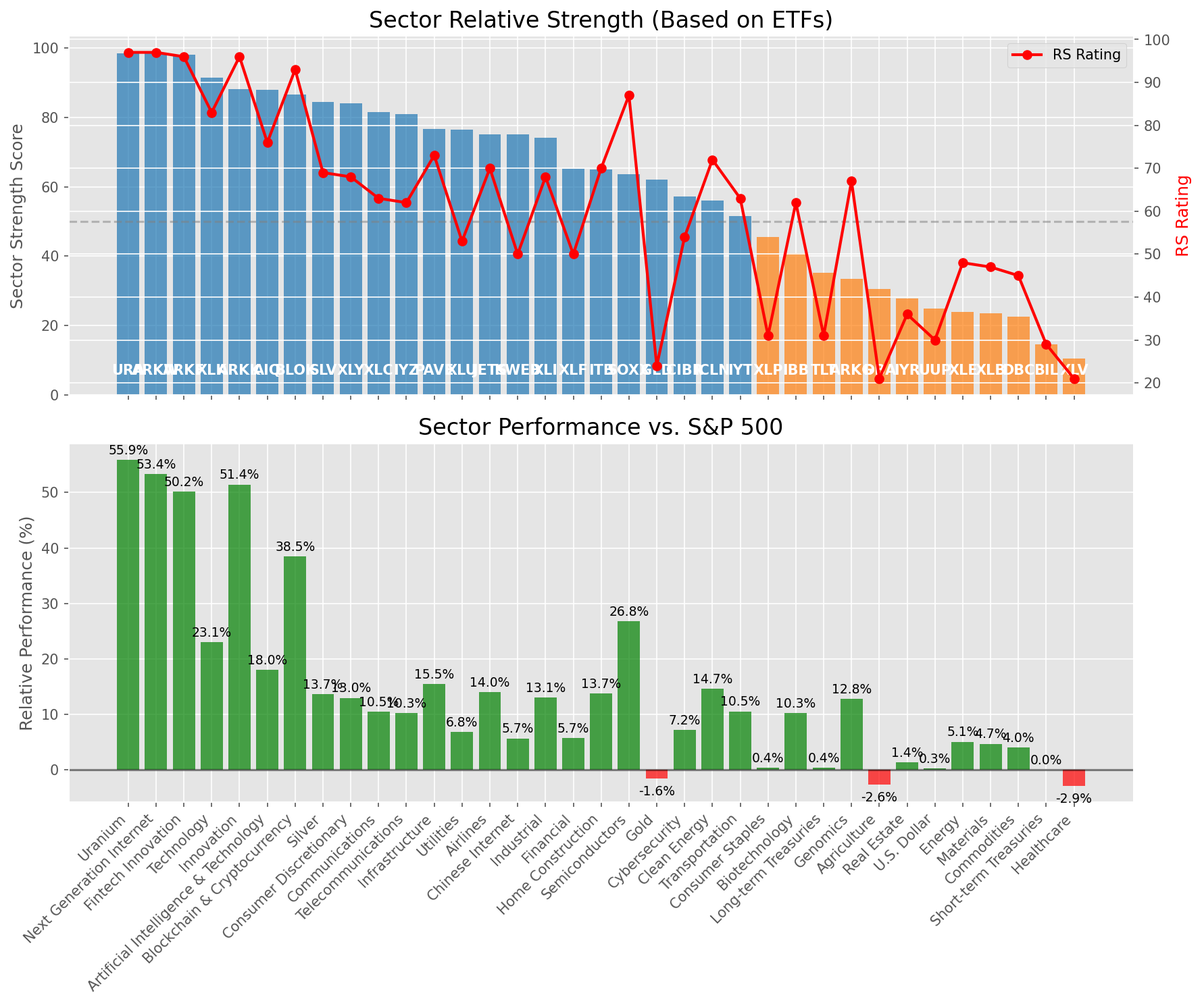
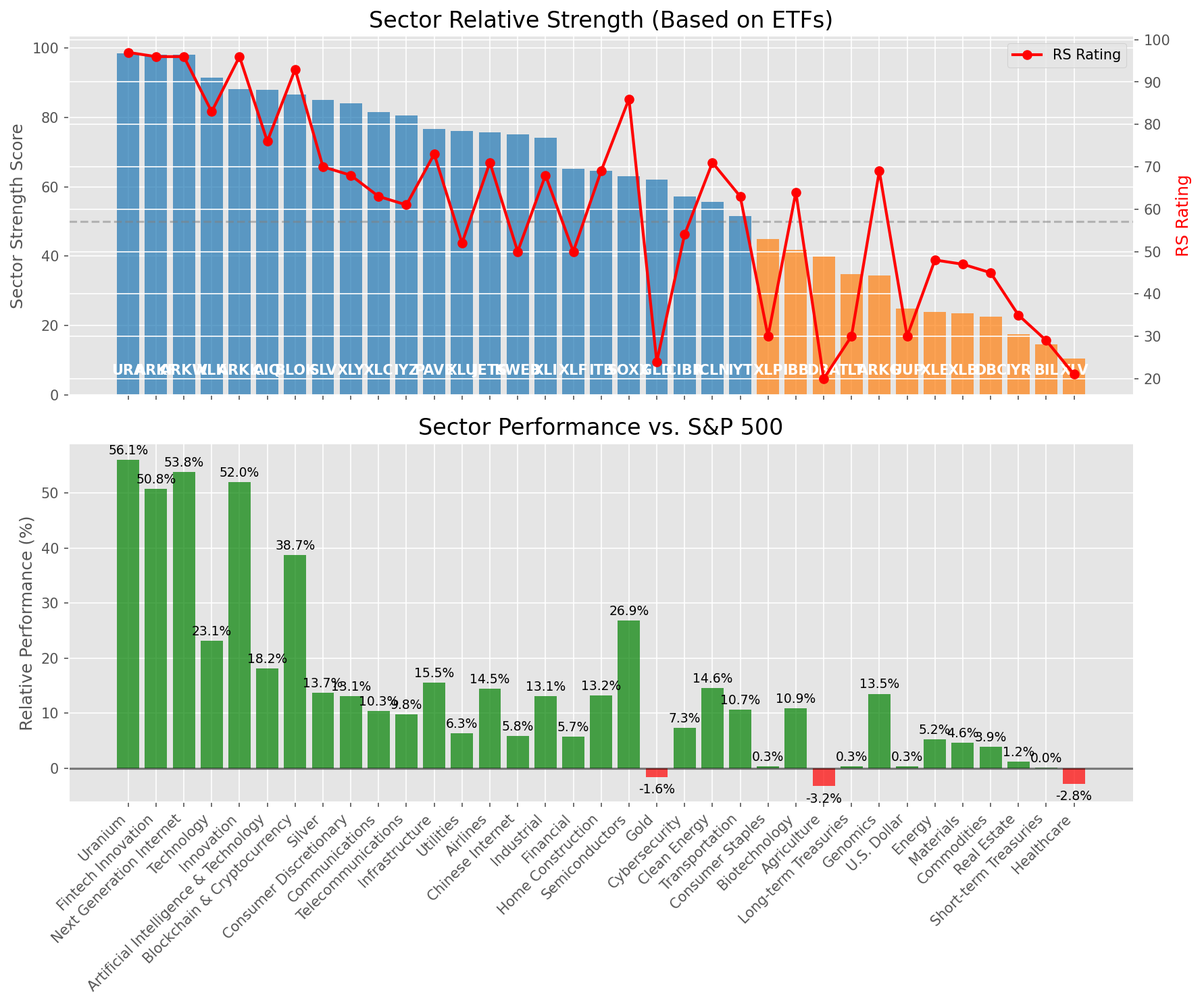
Add market report for 2025-08-06

diff --git a/oneil_relative_strength_report_2025-08-06.md b/oneil_relative_strength_report_2025-08-06.md
@@ -13,7 +13,7 @@
 | **Historical Mean** | 9.62 |
 | **Standard Deviation** | 0.54 |
 | **Z-Score (StdDev from Mean)** | 1.06 |
-| **Total Market Cap** | $311.30 trillion |
+| **Total Market Cap** | $311.25 trillion |
 | **GDP** | $30.33 trillion |
 
 ## **Market Insights**
@@ -49,41 +49,41 @@ Based on William O'Neil's Relative Strength Methodology
 
 | ETF | Strength | RS Rating | Performance | Above Key MAs | Trend | Sector |
 |-----|----------|-----------|-------------|--------------|-------|--------|
-| [URA](https://www.tradingview.com/chart/?symbol=URA) | 98.5 | 97.0 | 55.91% | 10d ✓, 50d ✓, 200d ✓ | ↗ | Uranium |
-| [ARKW](https://www.tradingview.com/chart/?symbol=ARKW) | 98.5 | 97.0 | 53.38% | 10d ✓, 50d ✓, 200d ✓ | ↗ | Next Generation Internet |
-| [ARKF](https://www.tradingview.com/chart/?symbol=ARKF) | 98.0 | 96.0 | 50.17% | 10d ✓, 50d ✓, 200d ✓ | ↗ | Fintech Innovation |
-| [XLK](https://www.tradingview.com/chart/?symbol=XLK) | 91.5 | 83.0 | 23.06% | 10d ✓, 50d ✓, 200d ✓ | ↗ | Technology |
-| [ARKK](https://www.tradingview.com/chart/?symbol=ARKK) | 88.1 | 96.0 | 51.44% | 10d ✗, 50d ✓, 200d ✓ | ↗ | Innovation |
-| [AIQ](https://www.tradingview.com/chart/?symbol=AIQ) | 88.0 | 76.0 | 18.01% | 10d ✓, 50d ✓, 200d ✓ | ↗ | Artificial Intelligence & Technology |
-| [BLOK](https://www.tradingview.com/chart/?symbol=BLOK) | 86.6 | 93.0 | 38.50% | 10d ✗, 50d ✓, 200d ✓ | ↗ | Blockchain & Cryptocurrency |
-| [SLV](https://www.tradingview.com/chart/?symbol=SLV) | 84.5 | 69.0 | 13.68% | 10d ✓, 50d ✓, 200d ✓ | ↗ | Silver |
-| [XLY](https://www.tradingview.com/chart/?symbol=XLY) | 84.0 | 68.0 | 12.98% | 10d ✓, 50d ✓, 200d ✓ | ↗ | Consumer Discretionary |
-| [XLC](https://www.tradingview.com/chart/?symbol=XLC) | 81.5 | 63.0 | 10.51% | 10d ✓, 50d ✓, 200d ✓ | ↗ | Communications |
-| [IYZ](https://www.tradingview.com/chart/?symbol=IYZ) | 81.0 | 62.0 | 10.26% | 10d ✓, 50d ✓, 200d ✓ | ↗ | Telecommunications |
+| [URA](https://www.tradingview.com/chart/?symbol=URA) | 98.5 | 97.0 | 56.08% | 10d ✓, 50d ✓, 200d ✓ | ↗ | Uranium |
+| [ARKF](https://www.tradingview.com/chart/?symbol=ARKF) | 98.0 | 96.0 | 50.77% | 10d ✓, 50d ✓, 200d ✓ | ↗ | Fintech Innovation |
+| [ARKW](https://www.tradingview.com/chart/?symbol=ARKW) | 98.0 | 96.0 | 53.80% | 10d ✓, 50d ✓, 200d ✓ | ↗ | Next Generation Internet |
+| [XLK](https://www.tradingview.com/chart/?symbol=XLK) | 91.5 | 83.0 | 23.11% | 10d ✓, 50d ✓, 200d ✓ | ↗ | Technology |
+| [ARKK](https://www.tradingview.com/chart/?symbol=ARKK) | 88.1 | 96.0 | 52.03% | 10d ✗, 50d ✓, 200d ✓ | ↗ | Innovation |
+| [AIQ](https://www.tradingview.com/chart/?symbol=AIQ) | 88.0 | 76.0 | 18.16% | 10d ✓, 50d ✓, 200d ✓ | ↗ | Artificial Intelligence & Technology |
+| [BLOK](https://www.tradingview.com/chart/?symbol=BLOK) | 86.6 | 93.0 | 38.74% | 10d ✗, 50d ✓, 200d ✓ | ↗ | Blockchain & Cryptocurrency |
+| [SLV](https://www.tradingview.com/chart/?symbol=SLV) | 85.0 | 70.0 | 13.67% | 10d ✓, 50d ✓, 200d ✓ | ↗ | Silver |
+| [XLY](https://www.tradingview.com/chart/?symbol=XLY) | 84.0 | 68.0 | 13.12% | 10d ✓, 50d ✓, 200d ✓ | ↗ | Consumer Discretionary |
+| [XLC](https://www.tradingview.com/chart/?symbol=XLC) | 81.5 | 63.0 | 10.35% | 10d ✓, 50d ✓, 200d ✓ | ↗ | Communications |
+| [IYZ](https://www.tradingview.com/chart/?symbol=IYZ) | 80.5 | 61.0 | 9.82% | 10d ✓, 50d ✓, 200d ✓ | ↗ | Telecommunications |
 | [PAVE](https://www.tradingview.com/chart/?symbol=PAVE) | 76.6 | 73.0 | 15.51% | 10d ✗, 50d ✓, 200d ✓ | ↗ | Infrastructure |
-| [XLU](https://www.tradingview.com/chart/?symbol=XLU) | 76.5 | 53.0 | 6.84% | 10d ✓, 50d ✓, 200d ✓ | ↗ | Utilities |
-| [JETS](https://www.tradingview.com/chart/?symbol=JETS) | 75.1 | 70.0 | 13.98% | 10d ✗, 50d ✓, 200d ✓ | ↗ | Airlines |
-| [KWEB](https://www.tradingview.com/chart/?symbol=KWEB) | 75.0 | 50.0 | 5.68% | 10d ✓, 50d ✓, 200d ✓ | ↗ | Chinese Internet |
-| [XLI](https://www.tradingview.com/chart/?symbol=XLI) | 74.1 | 68.0 | 13.09% | 10d ✗, 50d ✓, 200d ✓ | ↗ | Industrial |
-| [XLF](https://www.tradingview.com/chart/?symbol=XLF) | 65.1 | 50.0 | 5.70% | 10d ✗, 50d ✓, 200d ✓ | ↗ | Financial |
-| [ITB](https://www.tradingview.com/chart/?symbol=ITB) | 65.0 | 70.0 | 13.72% | 10d ✓, 50d ✓, 200d ✓ | ↘ | Home Construction |
-| [SOXX](https://www.tradingview.com/chart/?symbol=SOXX) | 63.6 | 87.0 | 26.85% | 10d ✗, 50d ✓, 200d ✓ | ↘ | Semiconductors |
+| [XLU](https://www.tradingview.com/chart/?symbol=XLU) | 76.0 | 52.0 | 6.33% | 10d ✓, 50d ✓, 200d ✓ | ↗ | Utilities |
+| [JETS](https://www.tradingview.com/chart/?symbol=JETS) | 75.6 | 71.0 | 14.46% | 10d ✗, 50d ✓, 200d ✓ | ↗ | Airlines |
+| [KWEB](https://www.tradingview.com/chart/?symbol=KWEB) | 75.0 | 50.0 | 5.83% | 10d ✓, 50d ✓, 200d ✓ | ↗ | Chinese Internet |
+| [XLI](https://www.tradingview.com/chart/?symbol=XLI) | 74.1 | 68.0 | 13.08% | 10d ✗, 50d ✓, 200d ✓ | ↗ | Industrial |
+| [XLF](https://www.tradingview.com/chart/?symbol=XLF) | 65.1 | 50.0 | 5.68% | 10d ✗, 50d ✓, 200d ✓ | ↗ | Financial |
+| [ITB](https://www.tradingview.com/chart/?symbol=ITB) | 64.5 | 69.0 | 13.22% | 10d ✓, 50d ✓, 200d ✓ | ↘ | Home Construction |
+| [SOXX](https://www.tradingview.com/chart/?symbol=SOXX) | 63.1 | 86.0 | 26.86% | 10d ✗, 50d ✓, 200d ✓ | ↘ | Semiconductors |
 | [GLD](https://www.tradingview.com/chart/?symbol=GLD) | 62.0 | 24.0 | -1.58% | 10d ✓, 50d ✓, 200d ✓ | ↗ | Gold |
-| [CIBR](https://www.tradingview.com/chart/?symbol=CIBR) | 57.2 | 54.0 | 7.16% | 10d ✗, 50d ✗, 200d ✓ | ↗ | Cybersecurity |
-| [ICLN](https://www.tradingview.com/chart/?symbol=ICLN) | 56.1 | 72.0 | 14.66% | 10d ✗, 50d ✓, 200d ✓ | ↘ | Clean Energy |
-| [IYT](https://www.tradingview.com/chart/?symbol=IYT) | 51.6 | 63.0 | 10.55% | 10d ✗, 50d ✓, 200d ✓ | ↘ | Transportation |
-| [XLP](https://www.tradingview.com/chart/?symbol=XLP) | 45.5 | 31.0 | 0.41% | 10d ✓, 50d ✓, 200d ✓ | ↘ | Consumer Staples |
-| [IBB](https://www.tradingview.com/chart/?symbol=IBB) | 40.9 | 62.0 | 10.25% | 10d ✗, 50d ✓, 200d ✗ | ↘ | Biotechnology |
-| [TLT](https://www.tradingview.com/chart/?symbol=TLT) | 35.3 | 31.0 | 0.39% | 10d ✓, 50d ✓, 200d ✗ | ↘ | Long-term Treasuries |
-| [ARKG](https://www.tradingview.com/chart/?symbol=ARKG) | 33.5 | 67.0 | 12.76% | 10d ✗, 50d ✗, 200d ✗ | ↘ | Genomics |
-| [DBA](https://www.tradingview.com/chart/?symbol=DBA) | 30.5 | 21.0 | -2.63% | 10d ✗, 50d ✗, 200d ✗ | ↗ | Agriculture |
-| [IYR](https://www.tradingview.com/chart/?symbol=IYR) | 27.9 | 36.0 | 1.40% | 10d ✗, 50d ✓, 200d ✗ | ↘ | Real Estate |
-| [UUP](https://www.tradingview.com/chart/?symbol=UUP) | 24.9 | 30.0 | 0.29% | 10d ✗, 50d ✓, 200d ✗ | ↘ | U.S. Dollar |
-| [XLE](https://www.tradingview.com/chart/?symbol=XLE) | 24.0 | 48.0 | 5.07% | 10d ✗, 50d ✗, 200d ✗ | ↘ | Energy |
-| [XLB](https://www.tradingview.com/chart/?symbol=XLB) | 23.5 | 47.0 | 4.71% | 10d ✗, 50d ✗, 200d ✗ | ↘ | Materials |
-| [DBC](https://www.tradingview.com/chart/?symbol=DBC) | 22.5 | 45.0 | 4.01% | 10d ✗, 50d ✗, 200d ✗ | ↘ | Commodities |
+| [CIBR](https://www.tradingview.com/chart/?symbol=CIBR) | 57.2 | 54.0 | 7.29% | 10d ✗, 50d ✗, 200d ✓ | ↗ | Cybersecurity |
+| [ICLN](https://www.tradingview.com/chart/?symbol=ICLN) | 55.6 | 71.0 | 14.57% | 10d ✗, 50d ✓, 200d ✓ | ↘ | Clean Energy |
+| [IYT](https://www.tradingview.com/chart/?symbol=IYT) | 51.6 | 63.0 | 10.67% | 10d ✗, 50d ✓, 200d ✓ | ↘ | Transportation |
+| [XLP](https://www.tradingview.com/chart/?symbol=XLP) | 45.0 | 30.0 | 0.33% | 10d ✓, 50d ✓, 200d ✓ | ↘ | Consumer Staples |
+| [IBB](https://www.tradingview.com/chart/?symbol=IBB) | 41.9 | 64.0 | 10.87% | 10d ✗, 50d ✓, 200d ✗ | ↘ | Biotechnology |
+| [DBA](https://www.tradingview.com/chart/?symbol=DBA) | 39.9 | 20.0 | -3.24% | 10d ✓, 50d ✗, 200d ✗ | ↗ | Agriculture |
+| [TLT](https://www.tradingview.com/chart/?symbol=TLT) | 34.8 | 30.0 | 0.33% | 10d ✓, 50d ✓, 200d ✗ | ↘ | Long-term Treasuries |
+| [ARKG](https://www.tradingview.com/chart/?symbol=ARKG) | 34.5 | 69.0 | 13.52% | 10d ✗, 50d ✗, 200d ✗ | ↘ | Genomics |
+| [UUP](https://www.tradingview.com/chart/?symbol=UUP) | 24.9 | 30.0 | 0.33% | 10d ✗, 50d ✓, 200d ✗ | ↘ | U.S. Dollar |
+| [XLE](https://www.tradingview.com/chart/?symbol=XLE) | 24.0 | 48.0 | 5.22% | 10d ✗, 50d ✗, 200d ✗ | ↘ | Energy |
+| [XLB](https://www.tradingview.com/chart/?symbol=XLB) | 23.5 | 47.0 | 4.59% | 10d ✗, 50d ✗, 200d ✗ | ↘ | Materials |
+| [DBC](https://www.tradingview.com/chart/?symbol=DBC) | 22.5 | 45.0 | 3.91% | 10d ✗, 50d ✗, 200d ✗ | ↘ | Commodities |
+| [IYR](https://www.tradingview.com/chart/?symbol=IYR) | 17.5 | 35.0 | 1.18% | 10d ✗, 50d ✗, 200d ✗ | ↘ | Real Estate |
 | [BIL](https://www.tradingview.com/chart/?symbol=BIL) | 14.5 | 29.0 | 0.03% | 10d ✗, 50d ✗, 200d ✗ | ↘ | Short-term Treasuries |
-| [XLV](https://www.tradingview.com/chart/?symbol=XLV) | 10.5 | 21.0 | -2.90% | 10d ✗, 50d ✗, 200d ✗ | ↘ | Healthcare |
+| [XLV](https://www.tradingview.com/chart/?symbol=XLV) | 10.5 | 21.0 | -2.84% | 10d ✗, 50d ✗, 200d ✗ | ↘ | Healthcare |
 
 ### **Sector ETF Performance Interpretation**
 
@@ -98,132 +98,129 @@ This table shows the relative strength metrics for different market sectors base
 
 ### **Current Sector Leadership**
 
-The current market leadership is coming from the following sectors: **Uranium, Next Generation Internet, Fintech Innovation**.
+The current market leadership is coming from the following sectors: **Uranium, Fintech Innovation, Next Generation Internet**.
 
-The **Uranium** sector (represented by **URA**) is showing particularly strong relative strength with an RS rating of 97.0 and performance of 55.91% vs. the S&P 500. This sector is trading above its 10-day, 50-day, 200-day moving average(s). Investors should consider focusing on high RS stocks within these leading sectors for potential outperformance.
+The **Uranium** sector (represented by **URA**) is showing particularly strong relative strength with an RS rating of 97.0 and performance of 56.08% vs. the S&P 500. This sector is trading above its 10-day, 50-day, 200-day moving average(s). Investors should consider focusing on high RS stocks within these leading sectors for potential outperformance.
 
 ---
 
 ## **Buy Recommendations**
 
-The following 59 stocks show exceptional relative strength:
+The following 62 stocks show exceptional relative strength:
 
 | RS Rating | Buy Score | Current Price | Chart | Name | Ticker |
 |-----------|-----------|---------------|-------|------|--------|
-| 100 | 100 | $239.30 | [Chart](https://www.tradingview.com/chart/?symbol=LEU) | Centrus Energy Corp. | LEU |
-| 100 | 100 | $104.47 | [Chart](https://www.tradingview.com/chart/?symbol=HOOD) | Robinhood Markets, Inc. Class A Common Stock | HOOD |
-| 100 | 100 | $67.31 | [Chart](https://www.tradingview.com/chart/?symbol=MP) | MP Materials Corp. | MP |
-| 100 | 100 | $118.07 | [Chart](https://www.tradingview.com/chart/?symbol=CRDO) | Credo Technology Group Holding Ltd Ordinary Shares | CRDO |
-| 100 | 100 | $197.65 | [Chart](https://www.tradingview.com/chart/?symbol=CLS) | Celestica, Inc. | CLS |
-| 99 | 100 | $213.62 | [Chart](https://www.tradingview.com/chart/?symbol=NET) | Cloudflare, Inc. Class A common stock, par value $0.001 per share | NET |
-| 99 | 100 | $133.38 | [Chart](https://www.tradingview.com/chart/?symbol=RBLX) | Roblox Corporation | RBLX |
-| 99 | 100 | $77.56 | [Chart](https://www.tradingview.com/chart/?symbol=LIF) | Life360, Inc. Common Stock | LIF |
-| 98 | 100 | $177.37 | [Chart](https://www.tradingview.com/chart/?symbol=PLTR) | Palantir Technologies Inc. Class A Common Stock | PLTR |
-| 98 | 100 | $191.55 | [Chart](https://www.tradingview.com/chart/?symbol=COOP) | Mr. Cooper Group Inc. Common Stock | COOP |
-| 98 | 100 | $59.85 | [Chart](https://www.tradingview.com/chart/?symbol=KTOS) | Kratos Defense & Security Solutions, Inc. | KTOS |
-| 98 | 100 | $381.32 | [Chart](https://www.tradingview.com/chart/?symbol=TLN) | Talen Energy Corporation Common Stock | TLN |
-| 98 | 100 | $663.10 | [Chart](https://www.tradingview.com/chart/?symbol=GEV) | GE Vernova Inc. | GEV |
-| 97 | 100 | $156.66 | [Chart](https://www.tradingview.com/chart/?symbol=ARKW) | ARK Next Generation Internet ETF | ARKW |
-| 97 | 100 | $38.50 | [Chart](https://www.tradingview.com/chart/?symbol=NNE) | Nano Nuclear Energy Inc. Common Stock | NNE |
-| 96 | 100 | $53.66 | [Chart](https://www.tradingview.com/chart/?symbol=ARKF) | ARK Fintech Innovation ETF | ARKF |
-| 96 | 100 | $35.25 | [Chart](https://www.tradingview.com/chart/?symbol=ATRO) | Astronics Corp | ATRO |
-| 96 | 100 | $111.95 | [Chart](https://www.tradingview.com/chart/?symbol=TPR) | Tapestry, Inc. Common Stock | TPR |
-| 95 | 100 | $28.81 | [Chart](https://www.tradingview.com/chart/?symbol=KAR) | OPENLANE, Inc | KAR |
-| 95 | 100 | $116.21 | [Chart](https://www.tradingview.com/chart/?symbol=SANM) | Sanmina  Corp | SANM |
-| 95 | 100 | $868.08 | [Chart](https://www.tradingview.com/chart/?symbol=AXON) | Axon Enterprise, Inc. Common Stock | AXON |
-| 94 | 100 | $51.17 | [Chart](https://www.tradingview.com/chart/?symbol=PTCT) | PTC Therapeutics, Inc. | PTCT |
-| 94 | 100 | $51.02 | [Chart](https://www.tradingview.com/chart/?symbol=BBW) | Build-A-Bear Workshop, Inc. | BBW |
-| 94 | 100 | $89.97 | [Chart](https://www.tradingview.com/chart/?symbol=RYTM) | Rhythm Pharmaceuticals, Inc. Common Stock | RYTM |
-| 94 | 100 | $93.26 | [Chart](https://www.tradingview.com/chart/?symbol=TPB) | Turning Point Brands, Inc. | TPB |
-| 93 | 100 | $21.64 | [Chart](https://www.tradingview.com/chart/?symbol=MAG) | MAG Silver Corp. | MAG |
-| 93 | 100 | $49.70 | [Chart](https://www.tradingview.com/chart/?symbol=REVG) | REV Group, Inc. | REVG |
-| 93 | 100 | $509.44 | [Chart](https://www.tradingview.com/chart/?symbol=CW) | Curtiss-Wright Corp. | CW |
-| 92 | 100 | $258.75 | [Chart](https://www.tradingview.com/chart/?symbol=DASH) | DoorDash, Inc. Class A Common Stock | DASH |
-| 92 | 100 | $109.12 | [Chart](https://www.tradingview.com/chart/?symbol=APH) | Amphenol Corporation | APH |
-| 92 | 100 | $354.53 | [Chart](https://www.tradingview.com/chart/?symbol=CVNA) | Carvana Co. | CVNA |
-| 91 | 100 | $155.81 | [Chart](https://www.tradingview.com/chart/?symbol=VSEC) | VSE Corp | VSEC |
-| 90 | 100 | $20.44 | [Chart](https://www.tradingview.com/chart/?symbol=LQDA) | Liquidia Corporation Common Stock | LQDA |
-| 90 | 100 | $57.88 | [Chart](https://www.tradingview.com/chart/?symbol=AU) | AngloGold Ashanti plc | AU |
-| 90 | 100 | $93.13 | [Chart](https://www.tradingview.com/chart/?symbol=EBAY) | eBay Inc | EBAY |
-| 90 | 100 | $725.92 | [Chart](https://www.tradingview.com/chart/?symbol=GS) | Goldman Sachs Group Inc. | GS |
-| 90 | 100 | $38.92 | [Chart](https://www.tradingview.com/chart/?symbol=ZLAB) | Zai Lab Limited American Depositary Shares | ZLAB |
-| 89 | 100 | $34.74 | [Chart](https://www.tradingview.com/chart/?symbol=DB) | Deutsche Bank Aktiengesellschaft | DB |
-| 89 | 100 | $273.27 | [Chart](https://www.tradingview.com/chart/?symbol=GE) | GE Aerospace | GE |
-| 89 | 100 | $42.92 | [Chart](https://www.tradingview.com/chart/?symbol=LTM) | LATAM Airlines Group S.A. American Depositary Shares (each representing two thousand (2,000) shares of Common Stock) | LTM |
-| 86 | 99 | $269.60 | [Chart](https://www.tradingview.com/chart/?symbol=IDCC) | InterDigital, Inc. | IDCC |
-| 88 | 98 | $390.31 | [Chart](https://www.tradingview.com/chart/?symbol=APP) | Applovin Corporation Class A Common Stock | APP |
-| 86 | 98 | $56.41 | [Chart](https://www.tradingview.com/chart/?symbol=BTI) | British American Tobacco p.l.c. American Depositary Shares, American Depositary Shares, each representing one Ordinary Share | BTI |
-| 87 | 97 | $128.84 | [Chart](https://www.tradingview.com/chart/?symbol=TWLO) | Twilio Inc. | TWLO |
-| 86 | 96 | $190.01 | [Chart](https://www.tradingview.com/chart/?symbol=AWI) | Armstrong World Industries, Inc. | AWI |
-| 83 | 96 | $91.73 | [Chart](https://www.tradingview.com/chart/?symbol=RBRK) | Rubrik, Inc. | RBRK |
-| 83 | 96 | $57.38 | [Chart](https://www.tradingview.com/chart/?symbol=ERJ) | Embraer S.A. | ERJ |
-| 83 | 95 | $102.17 | [Chart](https://www.tradingview.com/chart/?symbol=BK) | Bank of New York Mellon Corporation | BK |
-| 82 | 95 | $39.82 | [Chart](https://www.tradingview.com/chart/?symbol=AHR) | American Healthcare REIT, Inc. | AHR |
-| 81 | 95 | $19.57 | [Chart](https://www.tradingview.com/chart/?symbol=BCS) | Barclays PLC | BCS |
-| 84 | 94 | $51.65 | [Chart](https://www.tradingview.com/chart/?symbol=SIL) | Global X Silver Miners ETF (NEW) | SIL |
-| 83 | 94 | $264.87 | [Chart](https://www.tradingview.com/chart/?symbol=WTS) | Watts Water Technologies, Inc. Class A | WTS |
-| 83 | 94 | $197.89 | [Chart](https://www.tradingview.com/chart/?symbol=ITA) | iShares U.S. Aerospace & Defense ETF | ITA |
-| 82 | 94 | $29.59 | [Chart](https://www.tradingview.com/chart/?symbol=OR) | OR Royalties Inc. | OR |
-| 83 | 93 | $96.50 | [Chart](https://www.tradingview.com/chart/?symbol=NDAQ) | Nasdaq, Inc. Common Stock | NDAQ |
-| 81 | 93 | $322.07 | [Chart](https://www.tradingview.com/chart/?symbol=FFIV) | F5, Inc. Common Stock | FFIV |
+| 100 | 100 | $67.51 | [Chart](https://www.tradingview.com/chart/?symbol=MP) | MP Materials Corp. | MP |
+| 100 | 100 | $105.65 | [Chart](https://www.tradingview.com/chart/?symbol=HOOD) | Robinhood Markets, Inc. Class A Common Stock | HOOD |
+| 100 | 100 | $232.39 | [Chart](https://www.tradingview.com/chart/?symbol=LEU) | Centrus Energy Corp. | LEU |
+| 100 | 100 | $198.63 | [Chart](https://www.tradingview.com/chart/?symbol=CLS) | Celestica, Inc. | CLS |
+| 100 | 100 | $117.34 | [Chart](https://www.tradingview.com/chart/?symbol=CRDO) | Credo Technology Group Holding Ltd Ordinary Shares | CRDO |
+| 99 | 100 | $215.53 | [Chart](https://www.tradingview.com/chart/?symbol=NET) | Cloudflare, Inc. Class A common stock, par value $0.001 per share | NET |
+| 99 | 100 | $77.75 | [Chart](https://www.tradingview.com/chart/?symbol=LIF) | Life360, Inc. Common Stock | LIF |
+| 99 | 100 | $134.14 | [Chart](https://www.tradingview.com/chart/?symbol=RBLX) | Roblox Corporation | RBLX |
+| 98 | 100 | $23.80 | [Chart](https://www.tradingview.com/chart/?symbol=ACAD) | Acadia Pharmaceuticals Inc. | ACAD |
+| 98 | 100 | $58.93 | [Chart](https://www.tradingview.com/chart/?symbol=KTOS) | Kratos Defense & Security Solutions, Inc. | KTOS |
+| 98 | 100 | $190.76 | [Chart](https://www.tradingview.com/chart/?symbol=COOP) | Mr. Cooper Group Inc. Common Stock | COOP |
+| 98 | 100 | $179.54 | [Chart](https://www.tradingview.com/chart/?symbol=PLTR) | Palantir Technologies Inc. Class A Common Stock | PLTR |
+| 98 | 100 | $664.55 | [Chart](https://www.tradingview.com/chart/?symbol=GEV) | GE Vernova Inc. | GEV |
+| 97 | 100 | $378.67 | [Chart](https://www.tradingview.com/chart/?symbol=TLN) | Talen Energy Corporation Common Stock | TLN |
+| 96 | 100 | $35.37 | [Chart](https://www.tradingview.com/chart/?symbol=ATRO) | Astronics Corp | ATRO |
+| 96 | 100 | $157.09 | [Chart](https://www.tradingview.com/chart/?symbol=ARKW) | ARK Next Generation Internet ETF | ARKW |
+| 96 | 100 | $112.15 | [Chart](https://www.tradingview.com/chart/?symbol=TPR) | Tapestry, Inc. Common Stock | TPR |
+| 96 | 100 | $105.39 | [Chart](https://www.tradingview.com/chart/?symbol=VRNA) | Verona Pharma plc | VRNA |
+| 96 | 100 | $38.29 | [Chart](https://www.tradingview.com/chart/?symbol=NNE) | Nano Nuclear Energy Inc. Common Stock | NNE |
+| 96 | 100 | $53.87 | [Chart](https://www.tradingview.com/chart/?symbol=ARKF) | ARK Fintech Innovation ETF | ARKF |
+| 95 | 100 | $117.51 | [Chart](https://www.tradingview.com/chart/?symbol=SANM) | Sanmina  Corp | SANM |
+| 95 | 100 | $28.90 | [Chart](https://www.tradingview.com/chart/?symbol=KAR) | OPENLANE, Inc | KAR |
+| 94 | 100 | $90.01 | [Chart](https://www.tradingview.com/chart/?symbol=RYTM) | Rhythm Pharmaceuticals, Inc. Common Stock | RYTM |
+| 94 | 100 | $51.36 | [Chart](https://www.tradingview.com/chart/?symbol=PTCT) | PTC Therapeutics, Inc. | PTCT |
+| 94 | 100 | $51.28 | [Chart](https://www.tradingview.com/chart/?symbol=BBW) | Build-A-Bear Workshop, Inc. | BBW |
+| 94 | 100 | $863.65 | [Chart](https://www.tradingview.com/chart/?symbol=AXON) | Axon Enterprise, Inc. Common Stock | AXON |
+| 94 | 100 | $92.68 | [Chart](https://www.tradingview.com/chart/?symbol=TPB) | Turning Point Brands, Inc. | TPB |
+| 93 | 100 | $109.50 | [Chart](https://www.tradingview.com/chart/?symbol=APH) | Amphenol Corporation | APH |
+| 93 | 100 | $49.76 | [Chart](https://www.tradingview.com/chart/?symbol=REVG) | REV Group, Inc. | REVG |
+| 93 | 100 | $21.68 | [Chart](https://www.tradingview.com/chart/?symbol=MAG) | MAG Silver Corp. | MAG |
+| 93 | 100 | $509.32 | [Chart](https://www.tradingview.com/chart/?symbol=CW) | Curtiss-Wright Corp. | CW |
+| 92 | 100 | $354.89 | [Chart](https://www.tradingview.com/chart/?symbol=CVNA) | Carvana Co. | CVNA |
+| 92 | 100 | $258.08 | [Chart](https://www.tradingview.com/chart/?symbol=DASH) | DoorDash, Inc. Class A Common Stock | DASH |
+| 91 | 100 | $156.19 | [Chart](https://www.tradingview.com/chart/?symbol=VSEC) | VSE Corp | VSEC |
+| 90 | 100 | $92.54 | [Chart](https://www.tradingview.com/chart/?symbol=EBAY) | eBay Inc | EBAY |
+| 90 | 100 | $38.72 | [Chart](https://www.tradingview.com/chart/?symbol=ZLAB) | Zai Lab Limited American Depositary Shares | ZLAB |
+| 90 | 100 | $58.28 | [Chart](https://www.tradingview.com/chart/?symbol=AU) | AngloGold Ashanti plc | AU |
+| 90 | 100 | $724.74 | [Chart](https://www.tradingview.com/chart/?symbol=GS) | Goldman Sachs Group Inc. | GS |
+| 89 | 100 | $34.73 | [Chart](https://www.tradingview.com/chart/?symbol=DB) | Deutsche Bank Aktiengesellschaft | DB |
+| 89 | 100 | $272.28 | [Chart](https://www.tradingview.com/chart/?symbol=GE) | GE Aerospace | GE |
+| 89 | 100 | $42.99 | [Chart](https://www.tradingview.com/chart/?symbol=LTM) | LATAM Airlines Group S.A. American Depositary Shares (each representing two thousand (2,000) shares of Common Stock) | LTM |
+| 89 | 99 | $20.31 | [Chart](https://www.tradingview.com/chart/?symbol=LQDA) | Liquidia Corporation Common Stock | LQDA |
+| 88 | 98 | $130.22 | [Chart](https://www.tradingview.com/chart/?symbol=TWLO) | Twilio Inc. | TWLO |
+| 88 | 98 | $390.57 | [Chart](https://www.tradingview.com/chart/?symbol=APP) | Applovin Corporation Class A Common Stock | APP |
+| 86 | 98 | $56.40 | [Chart](https://www.tradingview.com/chart/?symbol=BTI) | British American Tobacco p.l.c. American Depositary Shares, American Depositary Shares, each representing one Ordinary Share | BTI |
+| 87 | 97 | $190.87 | [Chart](https://www.tradingview.com/chart/?symbol=AWI) | Armstrong World Industries, Inc. | AWI |
+| 86 | 97 | $84.68 | [Chart](https://www.tradingview.com/chart/?symbol=USFD) | US Foods Holding Corp. | USFD |
+| 83 | 96 | $91.77 | [Chart](https://www.tradingview.com/chart/?symbol=RBRK) | Rubrik, Inc. | RBRK |
+| 85 | 95 | $52.79 | [Chart](https://www.tradingview.com/chart/?symbol=AKRO) | Akero Therapeutics, Inc. Common Stock | AKRO |
+| 83 | 95 | $102.29 | [Chart](https://www.tradingview.com/chart/?symbol=BK) | Bank of New York Mellon Corporation | BK |
+| 82 | 95 | $57.14 | [Chart](https://www.tradingview.com/chart/?symbol=ERJ) | Embraer S.A. | ERJ |
+| 81 | 95 | $19.56 | [Chart](https://www.tradingview.com/chart/?symbol=BCS) | Barclays PLC | BCS |
+| 84 | 94 | $51.79 | [Chart](https://www.tradingview.com/chart/?symbol=SIL) | Global X Silver Miners ETF (NEW) | SIL |
+| 82 | 94 | $29.68 | [Chart](https://www.tradingview.com/chart/?symbol=OR) | OR Royalties Inc. | OR |
+| 81 | 94 | $39.65 | [Chart](https://www.tradingview.com/chart/?symbol=AHR) | American Healthcare REIT, Inc. | AHR |
+| 83 | 93 | $96.56 | [Chart](https://www.tradingview.com/chart/?symbol=NDAQ) | Nasdaq, Inc. Common Stock | NDAQ |
 | 82 | 92 | $51.45 | [Chart](https://www.tradingview.com/chart/?symbol=FHI) | Federated Hermes, Inc. | FHI |
-| 80 | 91 | $147.59 | [Chart](https://www.tradingview.com/chart/?symbol=PPA) | Invesco Aerospace & Defense ETF | PPA |
-| 80 | 91 | $114.66 | [Chart](https://www.tradingview.com/chart/?symbol=SXT) | Sensient Technology Corporation | SXT |
+| 82 | 92 | $263.73 | [Chart](https://www.tradingview.com/chart/?symbol=WTS) | Watts Water Technologies, Inc. Class A | WTS |
+| 81 | 92 | $115.01 | [Chart](https://www.tradingview.com/chart/?symbol=SXT) | Sensient Technology Corporation | SXT |
+| 80 | 92 | $321.23 | [Chart](https://www.tradingview.com/chart/?symbol=FFIV) | F5, Inc. Common Stock | FFIV |
+| 81 | 91 | $89.33 | [Chart](https://www.tradingview.com/chart/?symbol=GDXU) | MicroSectors Gold Miners 3x Leveraged ETN | GDXU |
+| 80 | 91 | $147.37 | [Chart](https://www.tradingview.com/chart/?symbol=PPA) | Invesco Aerospace & Defense ETF | PPA |
 
 ---
 
 
 ## **Sell Recommendations**
 
-The following 45 stocks show deteriorating relative strength:
+The following 39 stocks show deteriorating relative strength:
 
 | RS Rating | Sell Score | Current Price | Chart | Name | Ticker |
 |-----------|------------|---------------|-------|------|--------|
-| 1 | 100 | $11.88 | [Chart](https://www.tradingview.com/chart/?symbol=NVDS) | Investment Managers Series Trust II Tradr 1.5X Short NVDA Daily ETF | NVDS |
-| 2 | 100 | $13.82 | [Chart](https://www.tradingview.com/chart/?symbol=CLBT) | Cellebrite DI Ltd. Class A Ordinary Shares | CLBT |
-| 2 | 100 | $16.17 | [Chart](https://www.tradingview.com/chart/?symbol=DJT) | Trump Media & Technology Group Corp. Common Stock | DJT |
-| 4 | 100 | $41.40 | [Chart](https://www.tradingview.com/chart/?symbol=SDOW) | ProShares UltraPro Short Dow 30 | SDOW |
-| 4 | 100 | $24.21 | [Chart](https://www.tradingview.com/chart/?symbol=TBBB) | BBB Foods Inc. | TBBB |
+| 1 | 100 | $11.86 | [Chart](https://www.tradingview.com/chart/?symbol=NVDS) | Investment Managers Series Trust II Tradr 1.5X Short NVDA Daily ETF | NVDS |
+| 2 | 100 | $13.86 | [Chart](https://www.tradingview.com/chart/?symbol=CLBT) | Cellebrite DI Ltd. Class A Ordinary Shares | CLBT |
+| 2 | 100 | $16.25 | [Chart](https://www.tradingview.com/chart/?symbol=DJT) | Trump Media & Technology Group Corp. Common Stock | DJT |
+| 4 | 100 | $41.48 | [Chart](https://www.tradingview.com/chart/?symbol=SDOW) | ProShares UltraPro Short Dow 30 | SDOW |
+| 4 | 100 | $24.34 | [Chart](https://www.tradingview.com/chart/?symbol=TBBB) | BBB Foods Inc. | TBBB |
 | 6 | 100 | $10.37 | [Chart](https://www.tradingview.com/chart/?symbol=OEC) | Orion S.A. | OEC |
-| 7 | 100 | $45.74 | [Chart](https://www.tradingview.com/chart/?symbol=PRCT) | PROCEPT BioRobotics Corporation Common Stock | PRCT |
+| 7 | 100 | $45.69 | [Chart](https://www.tradingview.com/chart/?symbol=PRCT) | PROCEPT BioRobotics Corporation Common Stock | PRCT |
+| 10 | 100 | $54.94 | [Chart](https://www.tradingview.com/chart/?symbol=HRB) | H&R Block, Inc. | HRB |
 | 10 | 100 | $36.69 | [Chart](https://www.tradingview.com/chart/?symbol=LZB) | La-Z-Boy Incorporated | LZB |
-| 10 | 100 | $54.60 | [Chart](https://www.tradingview.com/chart/?symbol=HRB) | H&R Block, Inc. | HRB |
-| 12 | 100 | $16.36 | [Chart](https://www.tradingview.com/chart/?symbol=CTO) | CTO Realty Growth, Inc. | CTO |
-| 13 | 100 | $31.36 | [Chart](https://www.tradingview.com/chart/?symbol=JD) | JD.com, Inc. | JD |
-| 7 | 99 | $24.25 | [Chart](https://www.tradingview.com/chart/?symbol=DXD) | ProShares UltraShort Dow 30 | DXD |
-| 9 | 97 | $39.02 | [Chart](https://www.tradingview.com/chart/?symbol=SH) | ProShares Short S&P500 | SH |
-| 9 | 96 | $19.93 | [Chart](https://www.tradingview.com/chart/?symbol=GAP) | The Gap, Inc. | GAP |
-| 14 | 96 | $13.09 | [Chart](https://www.tradingview.com/chart/?symbol=GOOD) | Gladstone Commercial Corporation - REIT | GOOD |
-| 9 | 95 | $15.25 | [Chart](https://www.tradingview.com/chart/?symbol=PLSE) | Pulse Biosciences, Inc Common Stock (DE) | PLSE |
-| 14 | 94 | $42.00 | [Chart](https://www.tradingview.com/chart/?symbol=BILL) | BILL Holdings, Inc. | BILL |
-| 14 | 94 | $13.36 | [Chart](https://www.tradingview.com/chart/?symbol=EWTX) | Edgewise Therapeutics, Inc. Common Stock | EWTX |
-| 19 | 92 | $22.60 | [Chart](https://www.tradingview.com/chart/?symbol=CURB) | Curbline Properties Corp. | CURB |
-| 16 | 91 | $36.84 | [Chart](https://www.tradingview.com/chart/?symbol=PBA) | PEMBINA PIPELINE CORPORATION | PBA |
-| 11 | 90 | $14.01 | [Chart](https://www.tradingview.com/chart/?symbol=OSPN) | OneSpan Inc. Common Stock | OSPN |
-| 13 | 90 | $228.81 | [Chart](https://www.tradingview.com/chart/?symbol=WDAY) | Workday, Inc. Class A Common Stock | WDAY |
-| 18 | 89 | $15.63 | [Chart](https://www.tradingview.com/chart/?symbol=HQH) | abrdn Healthcare Investors | HQH |
-| 22 | 89 | $44.27 | [Chart](https://www.tradingview.com/chart/?symbol=EPI) | WisdomTree India Earnings Fund ETF | EPI |
-| 18 | 88 | $15.99 | [Chart](https://www.tradingview.com/chart/?symbol=FIHL) | Fidelis Insurance Holdings Limited | FIHL |
-| 17 | 87 | $86.62 | [Chart](https://www.tradingview.com/chart/?symbol=BIDU) | Baidu, Inc. | BIDU |
-| 24 | 87 | $10.34 | [Chart](https://www.tradingview.com/chart/?symbol=LOCO) | El Pollo Loco Holdings, Inc. | LOCO |
-| 22 | 86 | $19.20 | [Chart](https://www.tradingview.com/chart/?symbol=AVBP) | ArriVent BioPharma, Inc. Common Stock | AVBP |
-| 19 | 85 | $17.39 | [Chart](https://www.tradingview.com/chart/?symbol=DIV) | Global X SuperDividend U.S. ETF | DIV |
-| 18 | 84 | $20.98 | [Chart](https://www.tradingview.com/chart/?symbol=BLFS) | BioLife Solutions Inc. | BLFS |
-| 23 | 84 | $11.78 | [Chart](https://www.tradingview.com/chart/?symbol=NVG) | Nuveen AMT-Free Municipal Credit Income Fund | NVG |
-| 20 | 83 | $12.17 | [Chart](https://www.tradingview.com/chart/?symbol=WSR) | Whitestone REIT | WSR |
-| 25 | 83 | $37.86 | [Chart](https://www.tradingview.com/chart/?symbol=VNO) | Vornado Realty Trust | VNO |
-| 29 | 81 | $50.24 | [Chart](https://www.tradingview.com/chart/?symbol=XHLF) | BondBloxx Bloomberg Six Month Target Duration US Treasury ETF | XHLF |
-| 27 | 79 | $12.35 | [Chart](https://www.tradingview.com/chart/?symbol=RQI) | COHEN & STEERS QUALITY INCOME REALTY FUND, INC. COMMON SHARES | RQI |
-| 29 | 76 | $51.28 | [Chart](https://www.tradingview.com/chart/?symbol=LW) | Lamb Weston Holdings, Inc. | LW |
-| 28 | 75 | $23.30 | [Chart](https://www.tradingview.com/chart/?symbol=IBTF) | iShares iBonds Dec 2025 Term Treasury ETF | IBTF |
-| 29 | 74 | $59.92 | [Chart](https://www.tradingview.com/chart/?symbol=FTSM) | First Trust Enhanced Short Maturity ETF | FTSM |
-| 28 | 73 | $23.92 | [Chart](https://www.tradingview.com/chart/?symbol=FFBC) | First Financial Bancorp | FFBC |
-| 30 | 73 | $30.74 | [Chart](https://www.tradingview.com/chart/?symbol=FLRN) | SPDR Bloomberg Investment Grade Floating Rate ETF | FLRN |
-| 34 | 72 | $89.72 | [Chart](https://www.tradingview.com/chart/?symbol=VNQ) | Vanguard Real Estate ETF | VNQ |
-| 36 | 70 | $96.34 | [Chart](https://www.tradingview.com/chart/?symbol=RWR) | SPDR Dow Jones REIT ETF | RWR |
-| 37 | 70 | $24.12 | [Chart](https://www.tradingview.com/chart/?symbol=FLBL) | Franklin Senior Loan ETF | FLBL |
-| 39 | 66 | $20.61 | [Chart](https://www.tradingview.com/chart/?symbol=PEY) | Invesco High Yield Equity Dividend Achievers ETF | PEY |
-| 37 | 64 | $69.28 | [Chart](https://www.tradingview.com/chart/?symbol=PYPL) | PayPal Holdings, Inc. Common Stock | PYPL |
+| 12 | 100 | $16.35 | [Chart](https://www.tradingview.com/chart/?symbol=CTO) | CTO Realty Growth, Inc. | CTO |
+| 13 | 100 | $31.34 | [Chart](https://www.tradingview.com/chart/?symbol=JD) | JD.com, Inc. | JD |
+| 7 | 99 | $24.29 | [Chart](https://www.tradingview.com/chart/?symbol=DXD) | ProShares UltraShort Dow 30 | DXD |
+| 9 | 97 | $39.03 | [Chart](https://www.tradingview.com/chart/?symbol=SH) | ProShares Short S&P500 | SH |
+| 9 | 95 | $20.05 | [Chart](https://www.tradingview.com/chart/?symbol=GAP) | The Gap, Inc. | GAP |
+| 14 | 95 | $13.06 | [Chart](https://www.tradingview.com/chart/?symbol=GOOD) | Gladstone Commercial Corporation - REIT | GOOD |
+| 10 | 93 | $15.34 | [Chart](https://www.tradingview.com/chart/?symbol=PLSE) | Pulse Biosciences, Inc Common Stock (DE) | PLSE |
+| 15 | 93 | $42.22 | [Chart](https://www.tradingview.com/chart/?symbol=BILL) | BILL Holdings, Inc. | BILL |
+| 18 | 92 | $22.48 | [Chart](https://www.tradingview.com/chart/?symbol=CURB) | Curbline Properties Corp. | CURB |
+| 16 | 91 | $13.52 | [Chart](https://www.tradingview.com/chart/?symbol=EWTX) | Edgewise Therapeutics, Inc. Common Stock | EWTX |
+| 16 | 89 | $36.83 | [Chart](https://www.tradingview.com/chart/?symbol=PBA) | PEMBINA PIPELINE CORPORATION | PBA |
+| 22 | 89 | $44.30 | [Chart](https://www.tradingview.com/chart/?symbol=EPI) | WisdomTree India Earnings Fund ETF | EPI |
+| 14 | 88 | $229.08 | [Chart](https://www.tradingview.com/chart/?symbol=WDAY) | Workday, Inc. Class A Common Stock | WDAY |
+| 18 | 88 | $12.16 | [Chart](https://www.tradingview.com/chart/?symbol=WSR) | Whitestone REIT | WSR |
+| 20 | 88 | $13.10 | [Chart](https://www.tradingview.com/chart/?symbol=CCRN) | Cross Country Healthcare Inc | CCRN |
+| 22 | 88 | $10.24 | [Chart](https://www.tradingview.com/chart/?symbol=LOCO) | El Pollo Loco Holdings, Inc. | LOCO |
+| 17 | 86 | $86.81 | [Chart](https://www.tradingview.com/chart/?symbol=BIDU) | Baidu, Inc. | BIDU |
+| 21 | 86 | $19.09 | [Chart](https://www.tradingview.com/chart/?symbol=AVBP) | ArriVent BioPharma, Inc. Common Stock | AVBP |
+| 19 | 85 | $17.35 | [Chart](https://www.tradingview.com/chart/?symbol=DIV) | Global X SuperDividend U.S. ETF | DIV |
+| 20 | 85 | $16.07 | [Chart](https://www.tradingview.com/chart/?symbol=FIHL) | Fidelis Insurance Holdings Limited | FIHL |
+| 24 | 82 | $37.78 | [Chart](https://www.tradingview.com/chart/?symbol=VNO) | Vornado Realty Trust | VNO |
+| 29 | 80 | $50.25 | [Chart](https://www.tradingview.com/chart/?symbol=XHLF) | BondBloxx Bloomberg Six Month Target Duration US Treasury ETF | XHLF |
+| 28 | 78 | $12.35 | [Chart](https://www.tradingview.com/chart/?symbol=RQI) | COHEN & STEERS QUALITY INCOME REALTY FUND, INC. COMMON SHARES | RQI |
+| 28 | 74 | $23.70 | [Chart](https://www.tradingview.com/chart/?symbol=FFBC) | First Financial Bancorp | FFBC |
+| 29 | 72 | $23.30 | [Chart](https://www.tradingview.com/chart/?symbol=IBTF) | iShares iBonds Dec 2025 Term Treasury ETF | IBTF |
+| 31 | 71 | $30.75 | [Chart](https://www.tradingview.com/chart/?symbol=FLRN) | SPDR Bloomberg Investment Grade Floating Rate ETF | FLRN |
+| 33 | 71 | $89.54 | [Chart](https://www.tradingview.com/chart/?symbol=VNQ) | Vanguard Real Estate ETF | VNQ |
+| 36 | 71 | $24.13 | [Chart](https://www.tradingview.com/chart/?symbol=FLBL) | Franklin Senior Loan ETF | FLBL |
+| 36 | 69 | $96.18 | [Chart](https://www.tradingview.com/chart/?symbol=RWR) | SPDR Dow Jones REIT ETF | RWR |
+| 39 | 66 | $20.59 | [Chart](https://www.tradingview.com/chart/?symbol=PEY) | Invesco High Yield Equity Dividend Achievers ETF | PEY |
 
 ## **Methodology**
 
